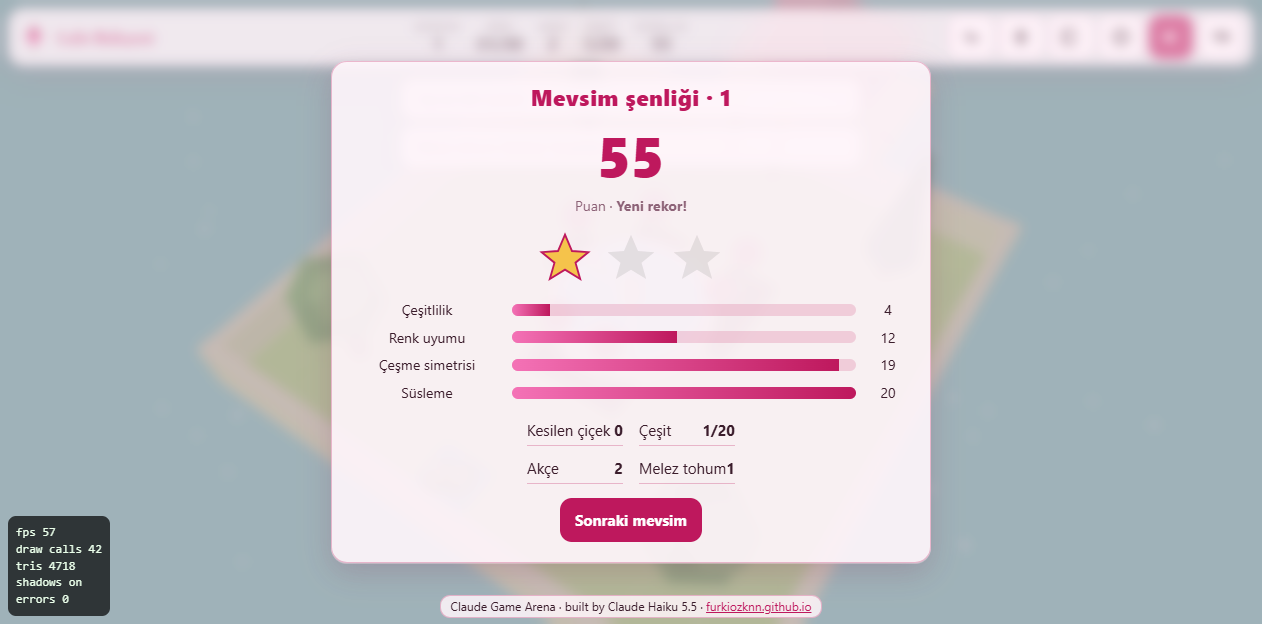
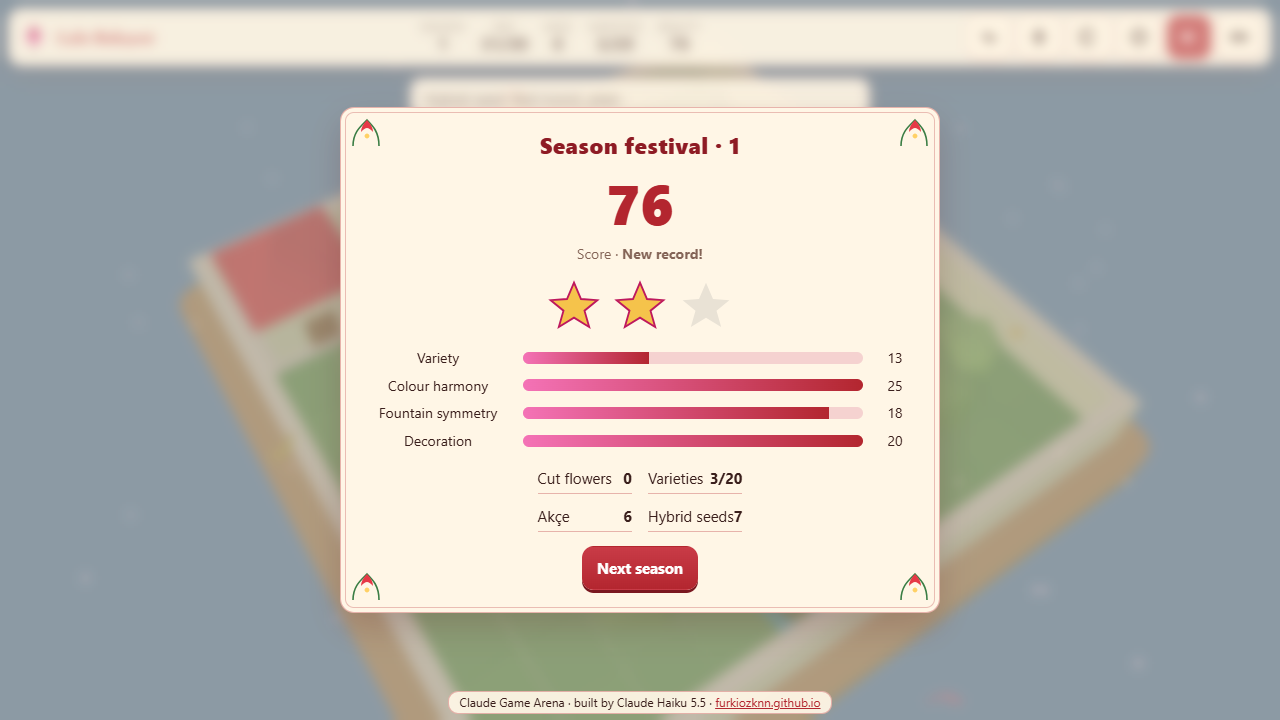
docs: redesign README section, new screenshots and before/after strip
Replaces the title, gameplay, festival and phone screenshots with the
redesign captures, adds docs/redesign-before-after.png, and documents
the art direction and the measured draw calls and triangles. Also adds
a column gap to the stats grids on the festival and end screens.

Claude-Session: https://claude.ai/code/session_014vMYwwQ3htV8WjCni8q7av

diff --git a/index.html b/index.html
@@ -46,7 +46,7 @@ h2{font-size:22px;color:var(--head)}
 .foot a{pointer-events:auto;color:var(--accent)}
 #title-best{font-size:14px;margin:0}
 .stats-grid{display:grid;grid-template-columns:repeat(2,1fr);gap:8px 16px;font-variant-numeric:tabular-nums}
-.stats-grid div{display:flex;justify-content:space-between;border-bottom:1px solid var(--line);padding:4px 0}
+.stats-grid div{display:flex;justify-content:space-between;gap:12px;border-bottom:1px solid var(--line);padding:4px 0}
 .bars{display:flex;flex-direction:column;gap:8px;width:100%}
 .bar{display:grid;grid-template-columns:150px 1fr 44px;gap:10px;align-items:center;font-size:14px;width:100%}
 .track{height:12px;border-radius:6px;background:rgba(190,24,93,.16);overflow:hidden}

diff --git a/README.md b/README.md
@@ -93,6 +93,23 @@ the best festival score under `arena.lale-bahcesi.best`. Turkish is the default 
 
 </details>
 
+## Redesign (2026-11)
+
+**Art direction:** a sunlit sandstone diorama floating on the Bosphorus: tulip red `#E63946`, pink `#F4A6C1`, marble
+`#EDEAE2`, lawn green `#6FB35F` (tinted per season) and sea blue `#6CA0DC`. The UI uses parchment garden-scroll panels
+with tulip-flourish corners.
+
+- **Changed:** diorama plinth and raised beds; tiered cypress and planes, capped lanterns, a stepped fountain; fountain
+  spray, bees and a flickering lantern glow; the garden-scroll UI on every screen.
+- **First minute:** the garden starts with four beds and a one-line coach, so the first bulb can be planted at once.
+- **Kept:** every level, season and star count, the bot, saves, flags and i18n. The mechanics did not change.
+- **Measured** (1280x720, this laptop, `?auto`, same sequence before and after): draw calls 42 → 57 at day 12 and
+  44 → 61 at day 22; triangles 4.3k → 4.9k at day 12. The game stays at 60 fps and far under the ~150-call budget.
+  Zero JS errors in the bot run, which covers every season and the end screen. The game loads no asset files, so
+  there is no separate `?noassets` run.
+
+![Before and after: the same garden on day 22, before on the left](docs/redesign-before-after.png)
+
 ## Screenshots
 
 <table>
